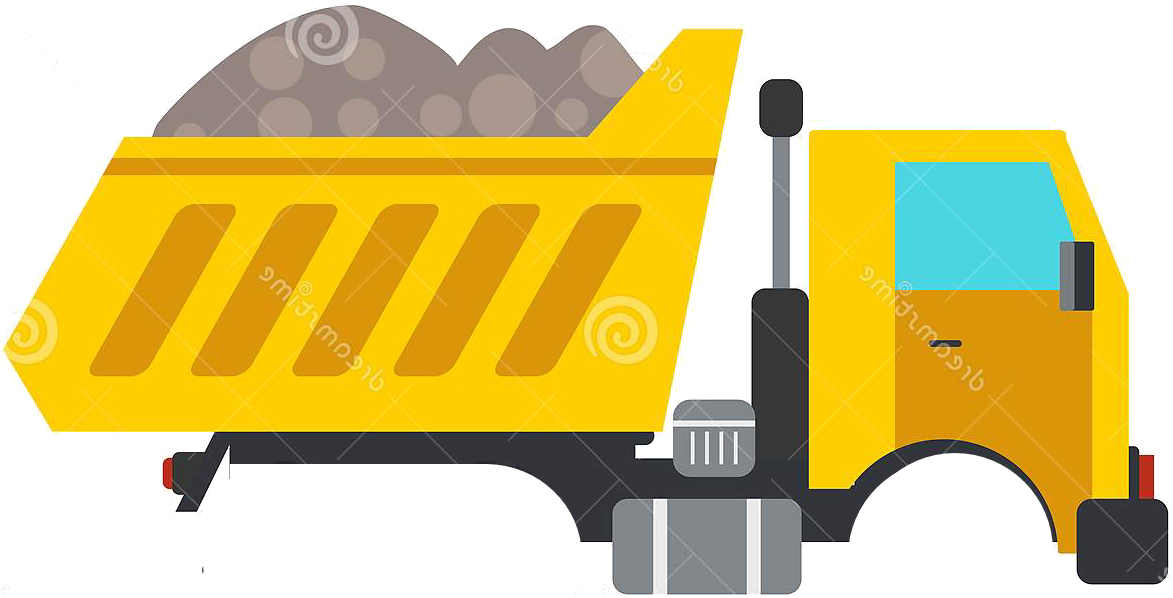
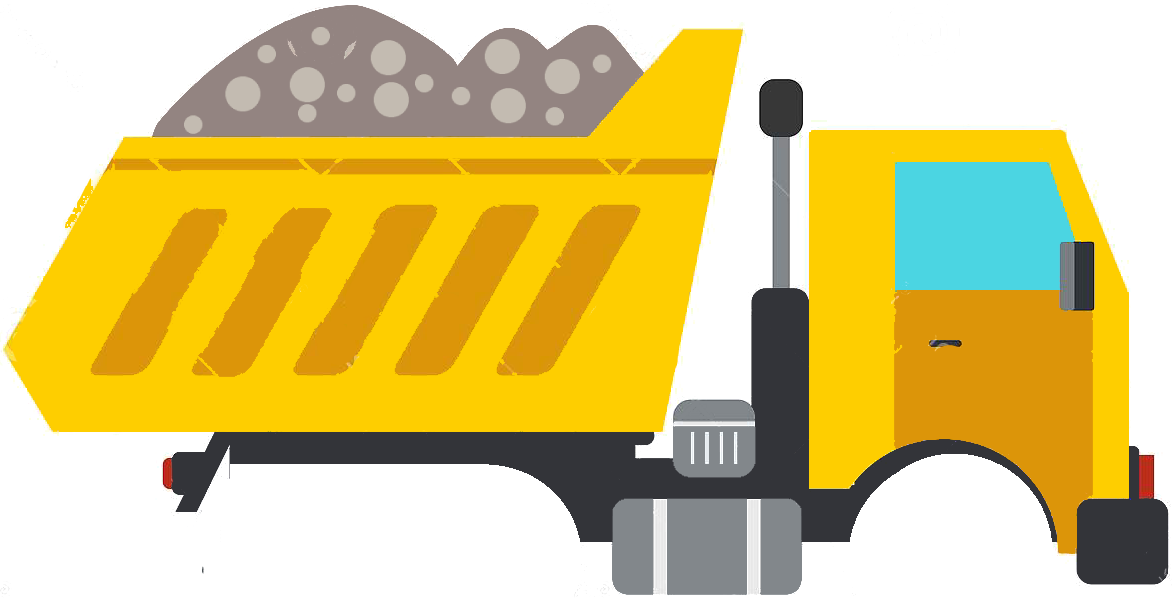
Removed old assets and unused assets and modified assets too

diff --git a/src/main.ts b/src/main.ts
@@ -7,7 +7,7 @@ import { Vehicles } from './vehicles';
 import { TitleScene } from './title';
 import { BetweenLevelState } from './gamestate';
 
-const DEBUG = true;
+const DEBUG = false;
 
 
 const sceneConfig: Phaser.Types.Scenes.SettingsConfig = {
